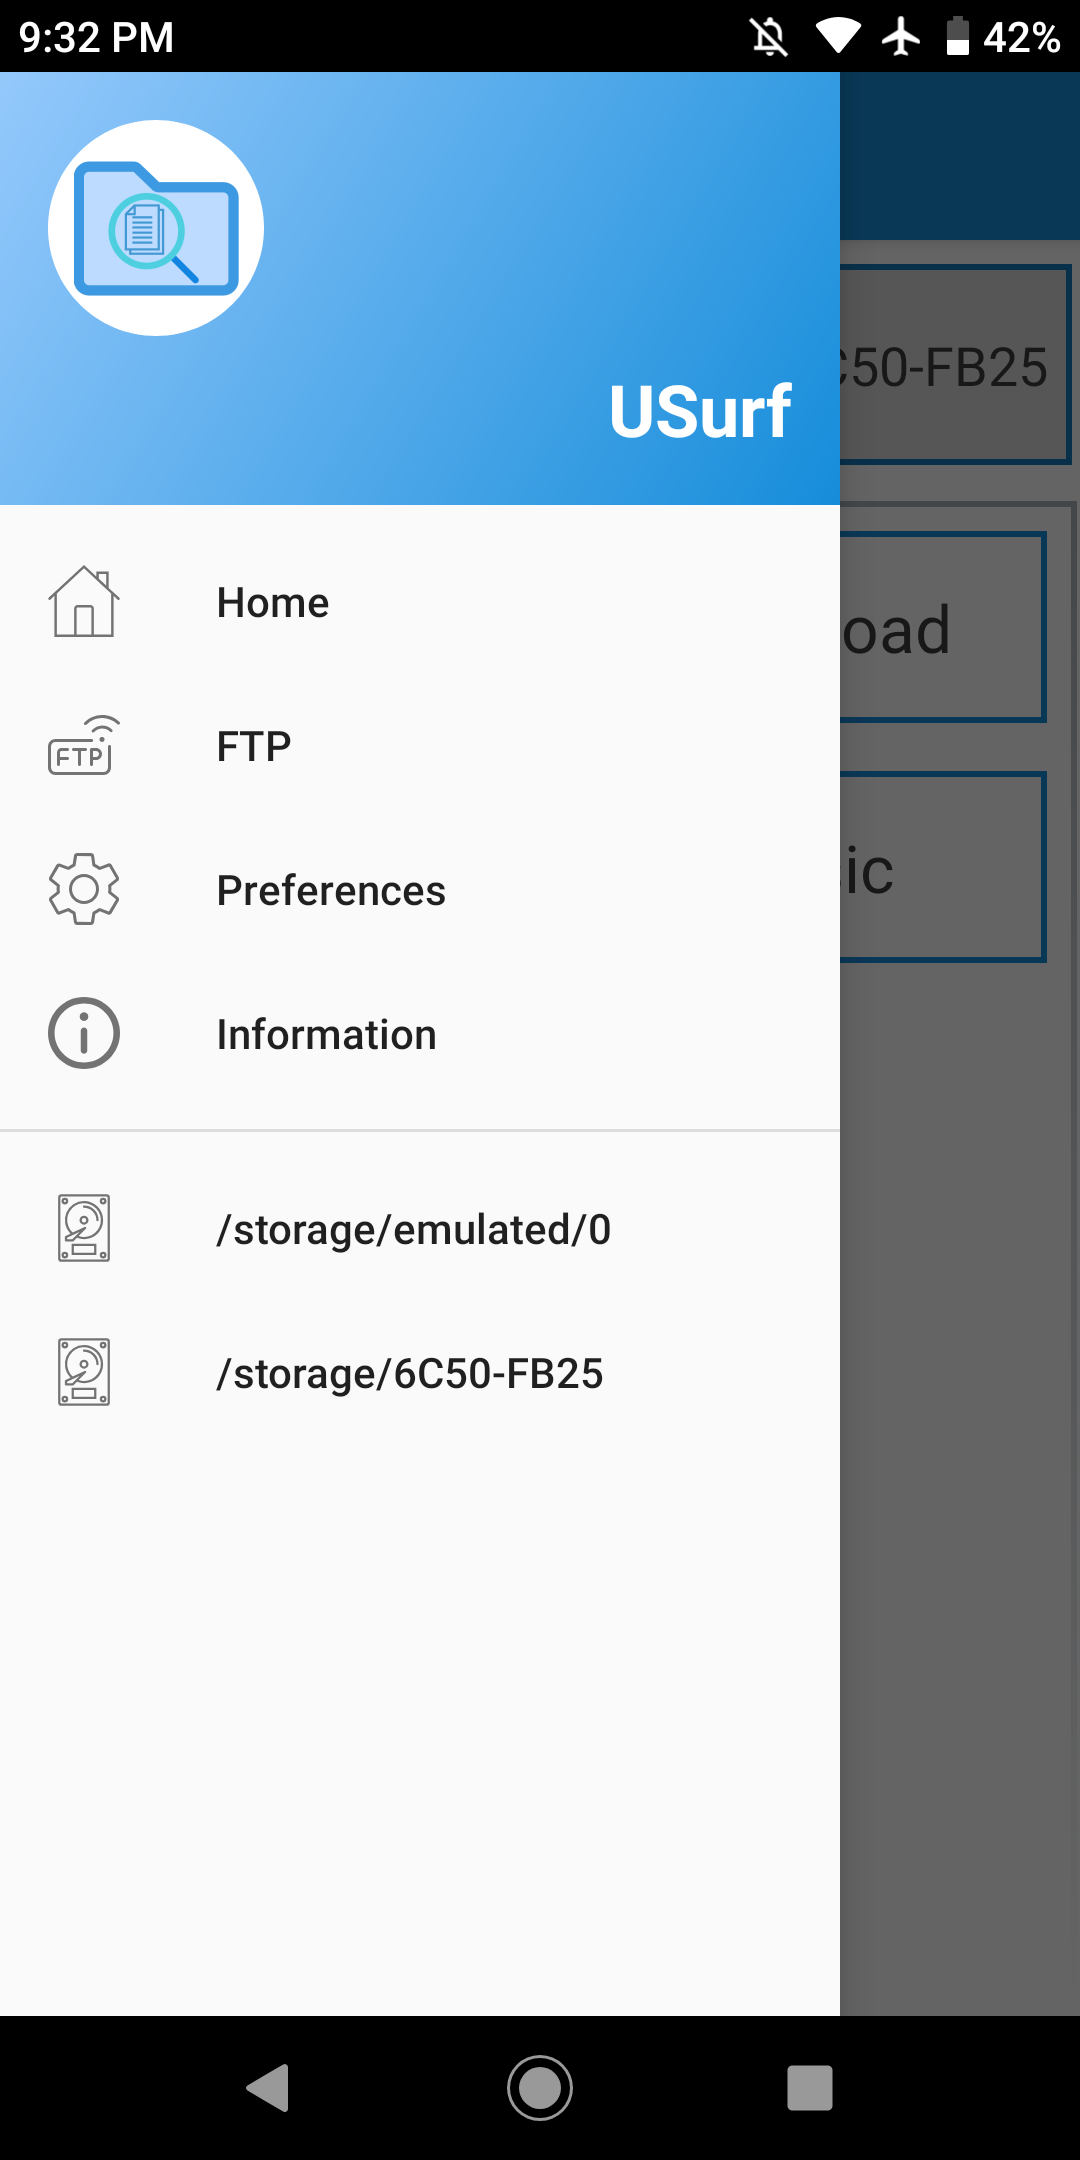
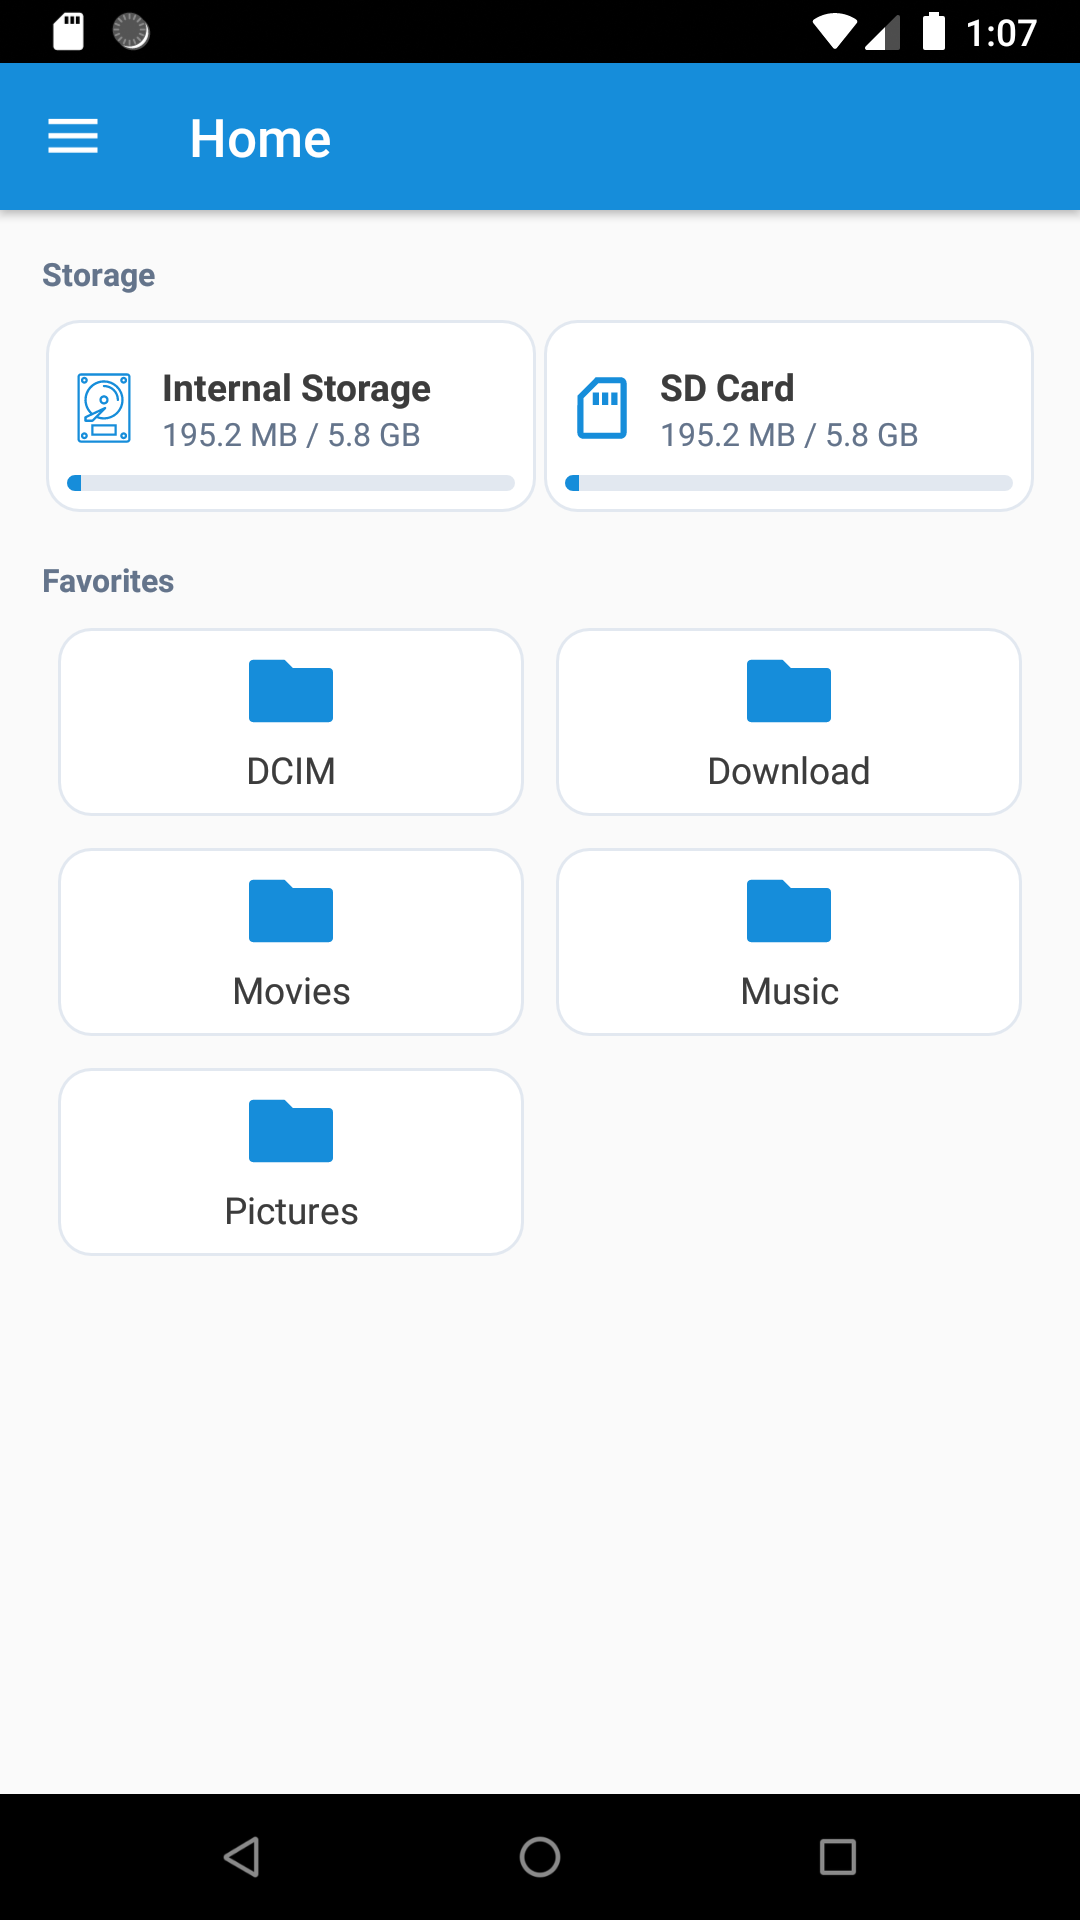
Update README

diff --git a/README.md b/README.md
@@ -2,7 +2,7 @@
 
 [<img src="https://github.com/ermanergoz/USurf/blob/master/resources/google-play-badge.png" width="200">](https://play.google.com/store/apps/details?id=com.erman.usurf)
 
-USurf File Manager is a simple open sourced Android file manager application that lets users browse their files, find their downloads, manage their storage space, move things around,and a lot more. The goal of this application is to provide trustable service to the users without any shady background operations and advertisement-free user experience.
+A lightweight, open-source Android file manager with built-in archive compression, root explorer, and wireless file transfer — no ads, no tracking, no in-app purchases.
 
 <p float="center">
 	<img src="https://github.com/ermanergoz/USurf/blob/master/resources/ss1.png" height="500">
@@ -10,33 +10,40 @@ USurf File Manager is a simple open sourced Android file manager application tha
 	<img src="https://github.com/ermanergoz/USurf/blob/master/resources/ss3.png" height="500">
 </p>
 
+## Why USurf?
+
+**Powerful file compression** — Compress and extract archives directly on your device. Supports 7z, BZIP2, GZIP, TAR, WIM, XZ, and ZIP formats. Can also extract RAR. Powered by 7-Zip built from source via NDK.
+
+**Root file explorer** — Browse and manage root directories on rooted devices. One of the few open-source file managers that still supports root access.
+
+**Wireless file transfer** — Transfer files between your phone and computer over Wi-Fi using the built-in FTP server. No cables, no third-party apps needed.
+
+**100% free and open source** — No ads, no analytics, no in-app purchases, and no data collection. The entire source code is available for anyone to audit, build, and contribute to.
+
 ## Features
 
-- Basic features like cut, copy, delete etc.
-- File transfer over WI-FI using FTP.
-- Device-wide, keyword based file search.
-- Support to copy–paste multiple files to multiple places multiple times.
-- Access to root files if the device is rooted.
-- Integrated file compression feature. Supported formats are: 7z, BZIP2, GZIP, TAR, WIM, XZ, ZIP. (Can extract RAR format but can't create)
-- Support to add / remove shortcuts to home screen.
-- Navigation drawer for easy navigation.
-- Dark theme support.
-- No ads or In-app purchases.
+- Copy, move, rename, delete, and share files
+- Compress and extract archives (7z, BZIP2, GZIP, TAR, WIM, XZ, ZIP; RAR extract only)
+- Root file explorer for rooted devices
+- Built-in FTP server for wireless file transfer
+- Device-wide keyword-based file search
+- Copy and paste files to multiple destinations
+- Favorite folders for quick access
+- Image and video thumbnail previews
+- Dark theme support
+- SD card support
 
 ## Build & Run
 
-- Clone git repository:
+Clone and open in Android Studio:
 
-	```sh
-	git clone https://github.com/ermanergoz/USurf-file-manager.git
-	```
+```sh
+git clone https://github.com/ermanergoz/USurf-file-manager.git
+```
 
-- Import the project into Android Studio:
-	- Open Android Studio. After that Click on “Open an existing Android Studio project”. If Android Studio is already open, click on File and then Click on Open.
-	- Select the location of the cloned repository and then Click OK.
-	- After Gradle operations are finished, the application will be ready to run.
+Open the project in Android Studio, wait for Gradle sync to complete, and run.
 
-## Application Architecture & Dependencies
+## Architecture & Dependencies
 
 - [MVVM architecture](https://developer.android.com/jetpack/guide)
 - [Data binding](https://developer.android.com/topic/libraries/data-binding)
@@ -51,24 +58,16 @@ USurf File Manager is a simple open sourced Android file manager application tha
 - [Glide](https://github.com/bumptech/glide)
 - [Koin](https://insert-koin.io/)
 
-## Meta
+## License
 
-Yusuf Erman ERGÖZ – erman.ergoz@gmail.com
+Distributed under the MIT license. See `LICENSE` for more information.
 
-Distributed under the MIT license. See ``LICENSE`` for more information.
+## Author
 
-[https://github.com/ermanergoz](https://github.com/ermanergoz)
+Yusuf Erman ERGÖZ — erman.ergoz@gmail.com
+
+[github.com/ermanergoz](https://github.com/ermanergoz)
 
 ## Acknowledgements
 
 - [Flaticon](https://www.flaticon.com/)
-
-<!--
-## Contributing
-
-1. Fork it (<https://github.com/yourname/yourproject/fork>)
-2. Create your feature branch (`git checkout -b feature/fooBar`)
-3. Commit your changes (`git commit -am 'Add some fooBar'`)
-4. Push to the branch (`git push origin feature/fooBar`)
-5. Create a new Pull Request
--->
